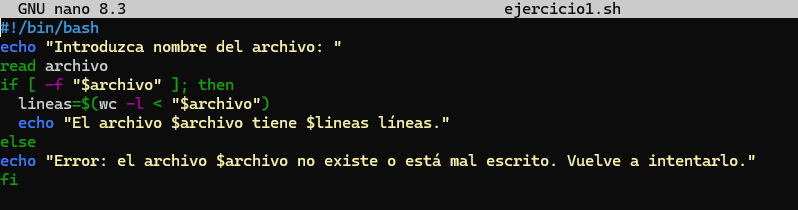
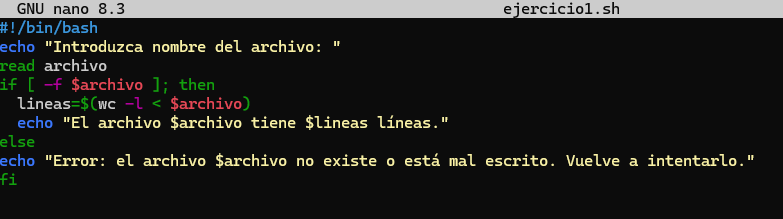
pr0301

Changed region(s): [[0.0, 0.0, 1.0, 0.8857]]

diff --git a/ut03/pr0301/pr0301.md b/ut03/pr0301/pr0301.md
@@ -9,6 +9,16 @@ Para ver que funciona, pondremos `./ejercicio1.sh` o el archivo que corresponda.
 
 ![Ejercicio 1_1](Imagenes/Ej1_1.png)
 
+Pero si no ponemos nada, saldrá con una línea del script. Esto es porque las variables que están en rojo habría que meterlas entre comillas dobles **("")** o simples **('')** para que no saliese la línea e incluso que no lo detecte como una entrada de línea.
+
+Ejemplo sin comillas en las variables:
+
+![Ejemplo](Imagenes/ejemplo1.png)
+
+Ejemplo con las comillas en las variables:
+
+![Ejemplo 1](Imagenes/ejemplo2.png)
+
 ## 📌 Ejercicio 2: Verificación de archivo
 Creamos otro archivo, le pondremos de nombre **ejercicio2.sh** y le damos los permisos.
 
